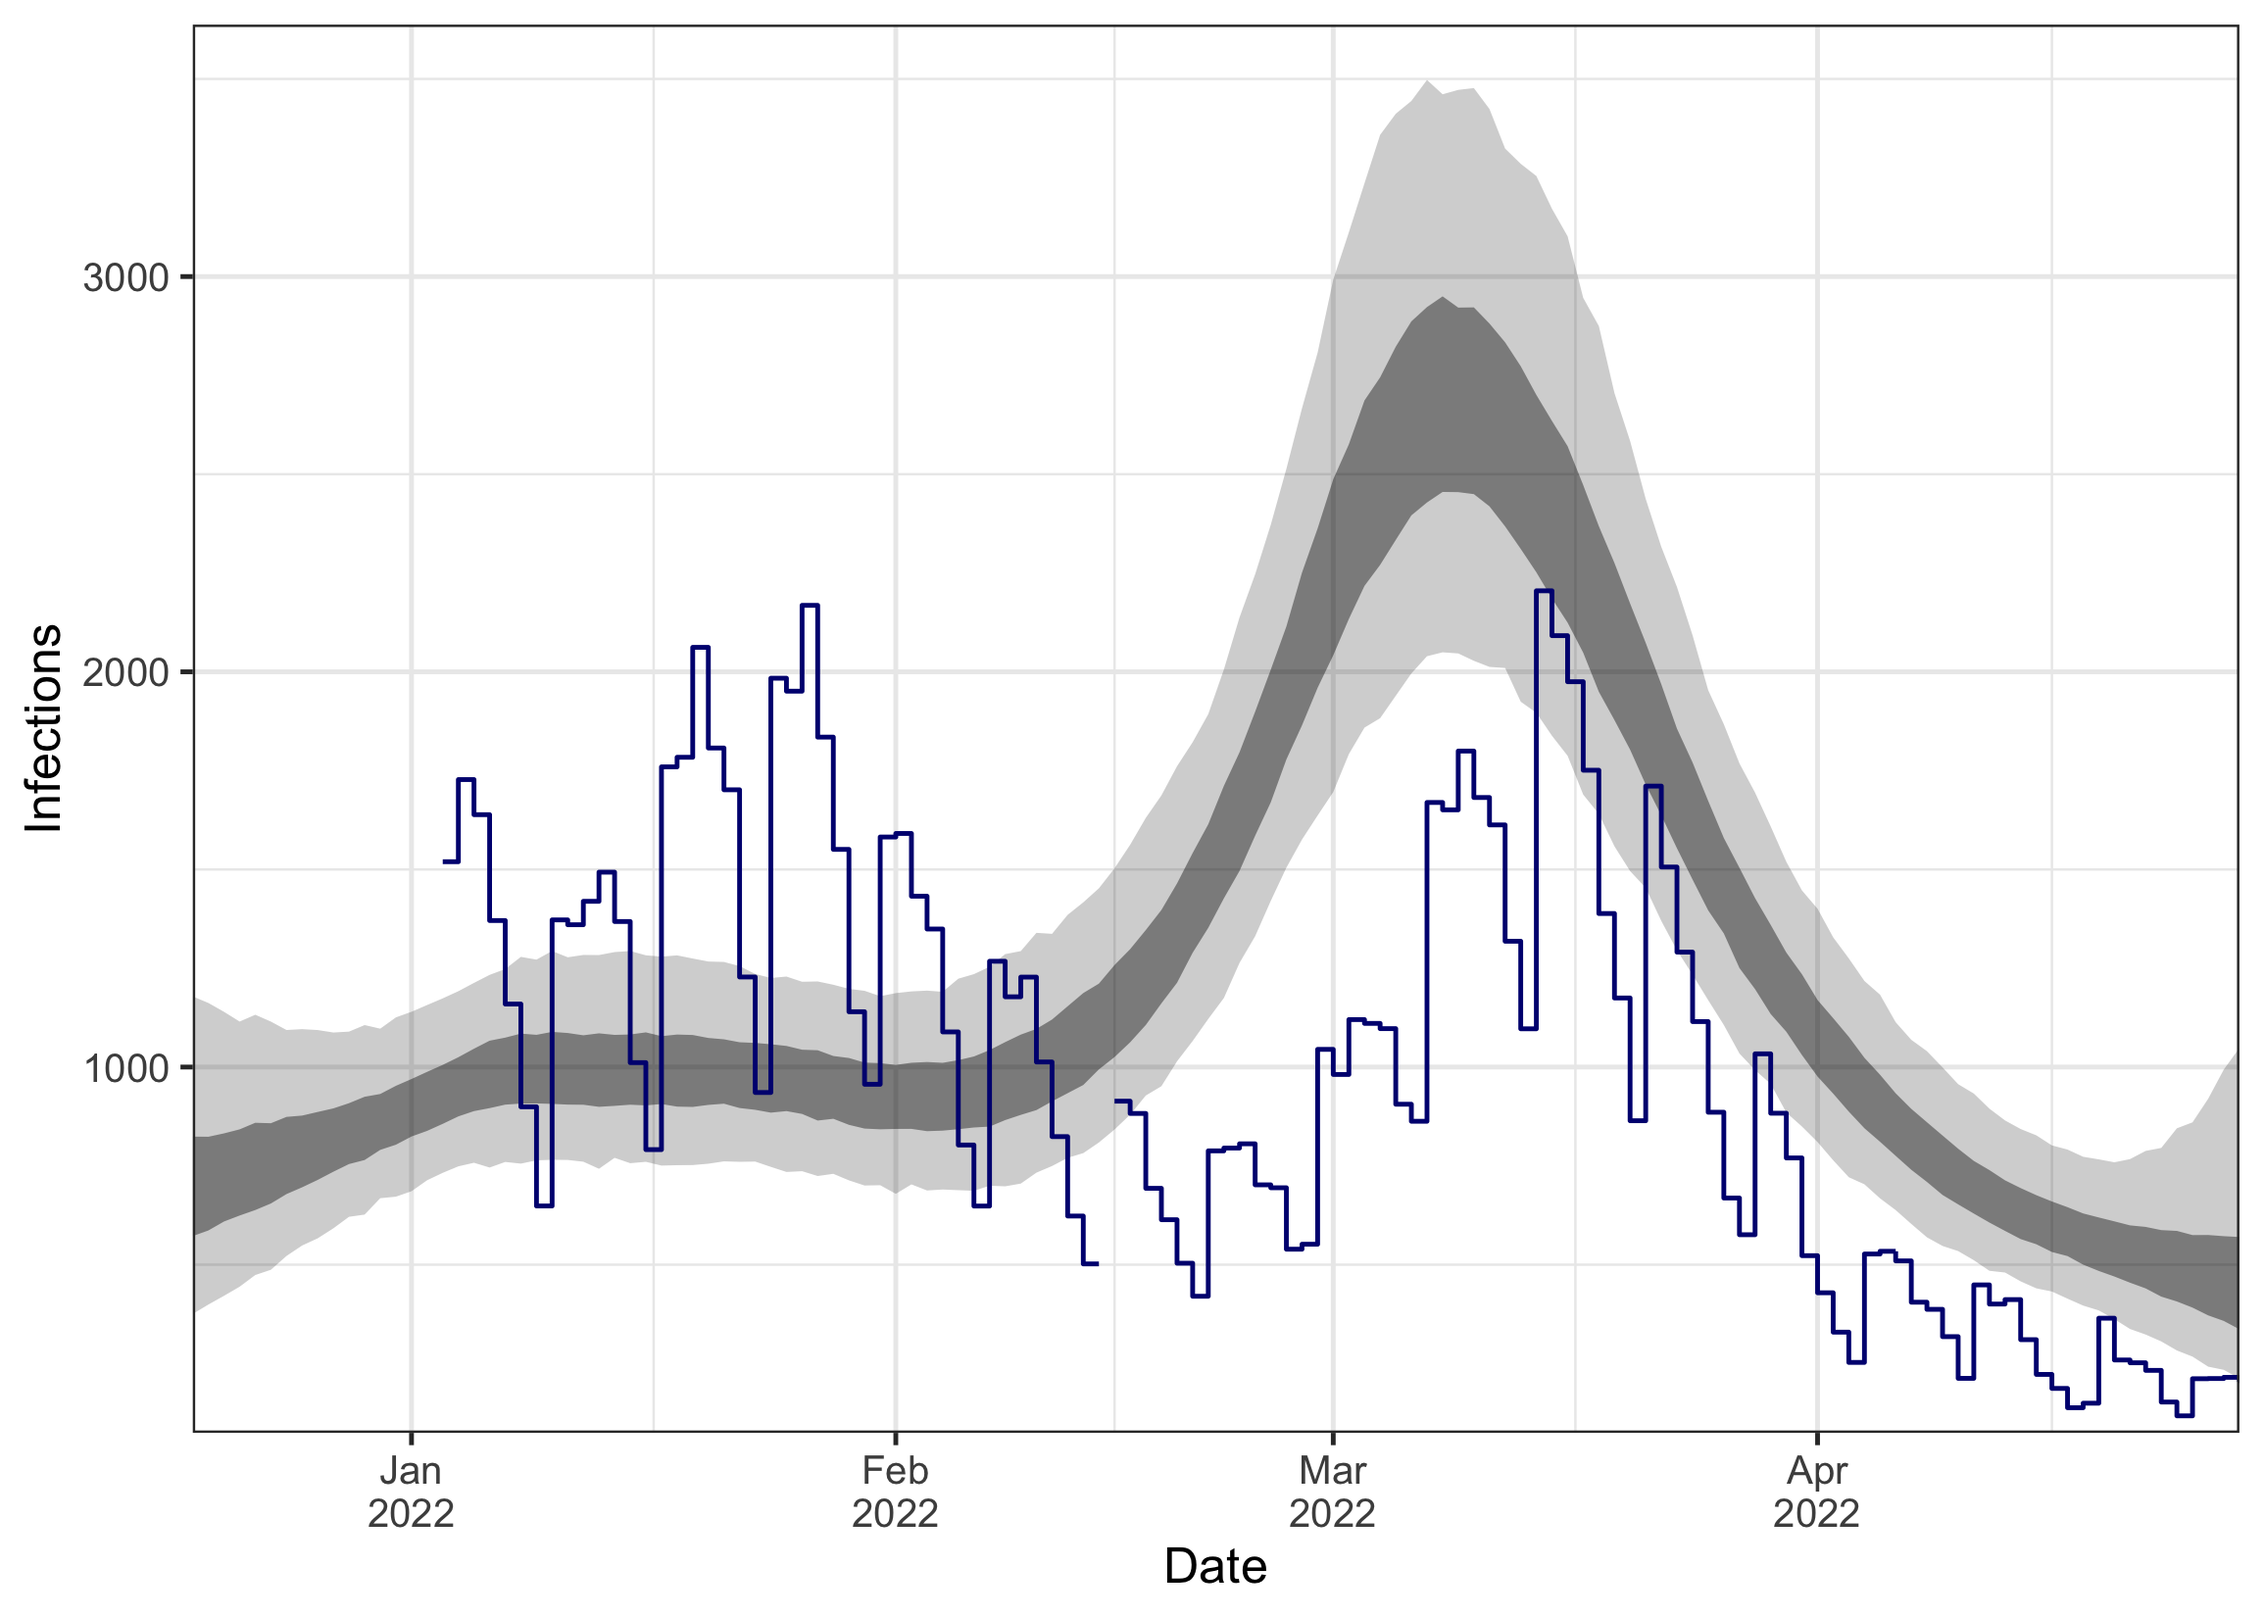
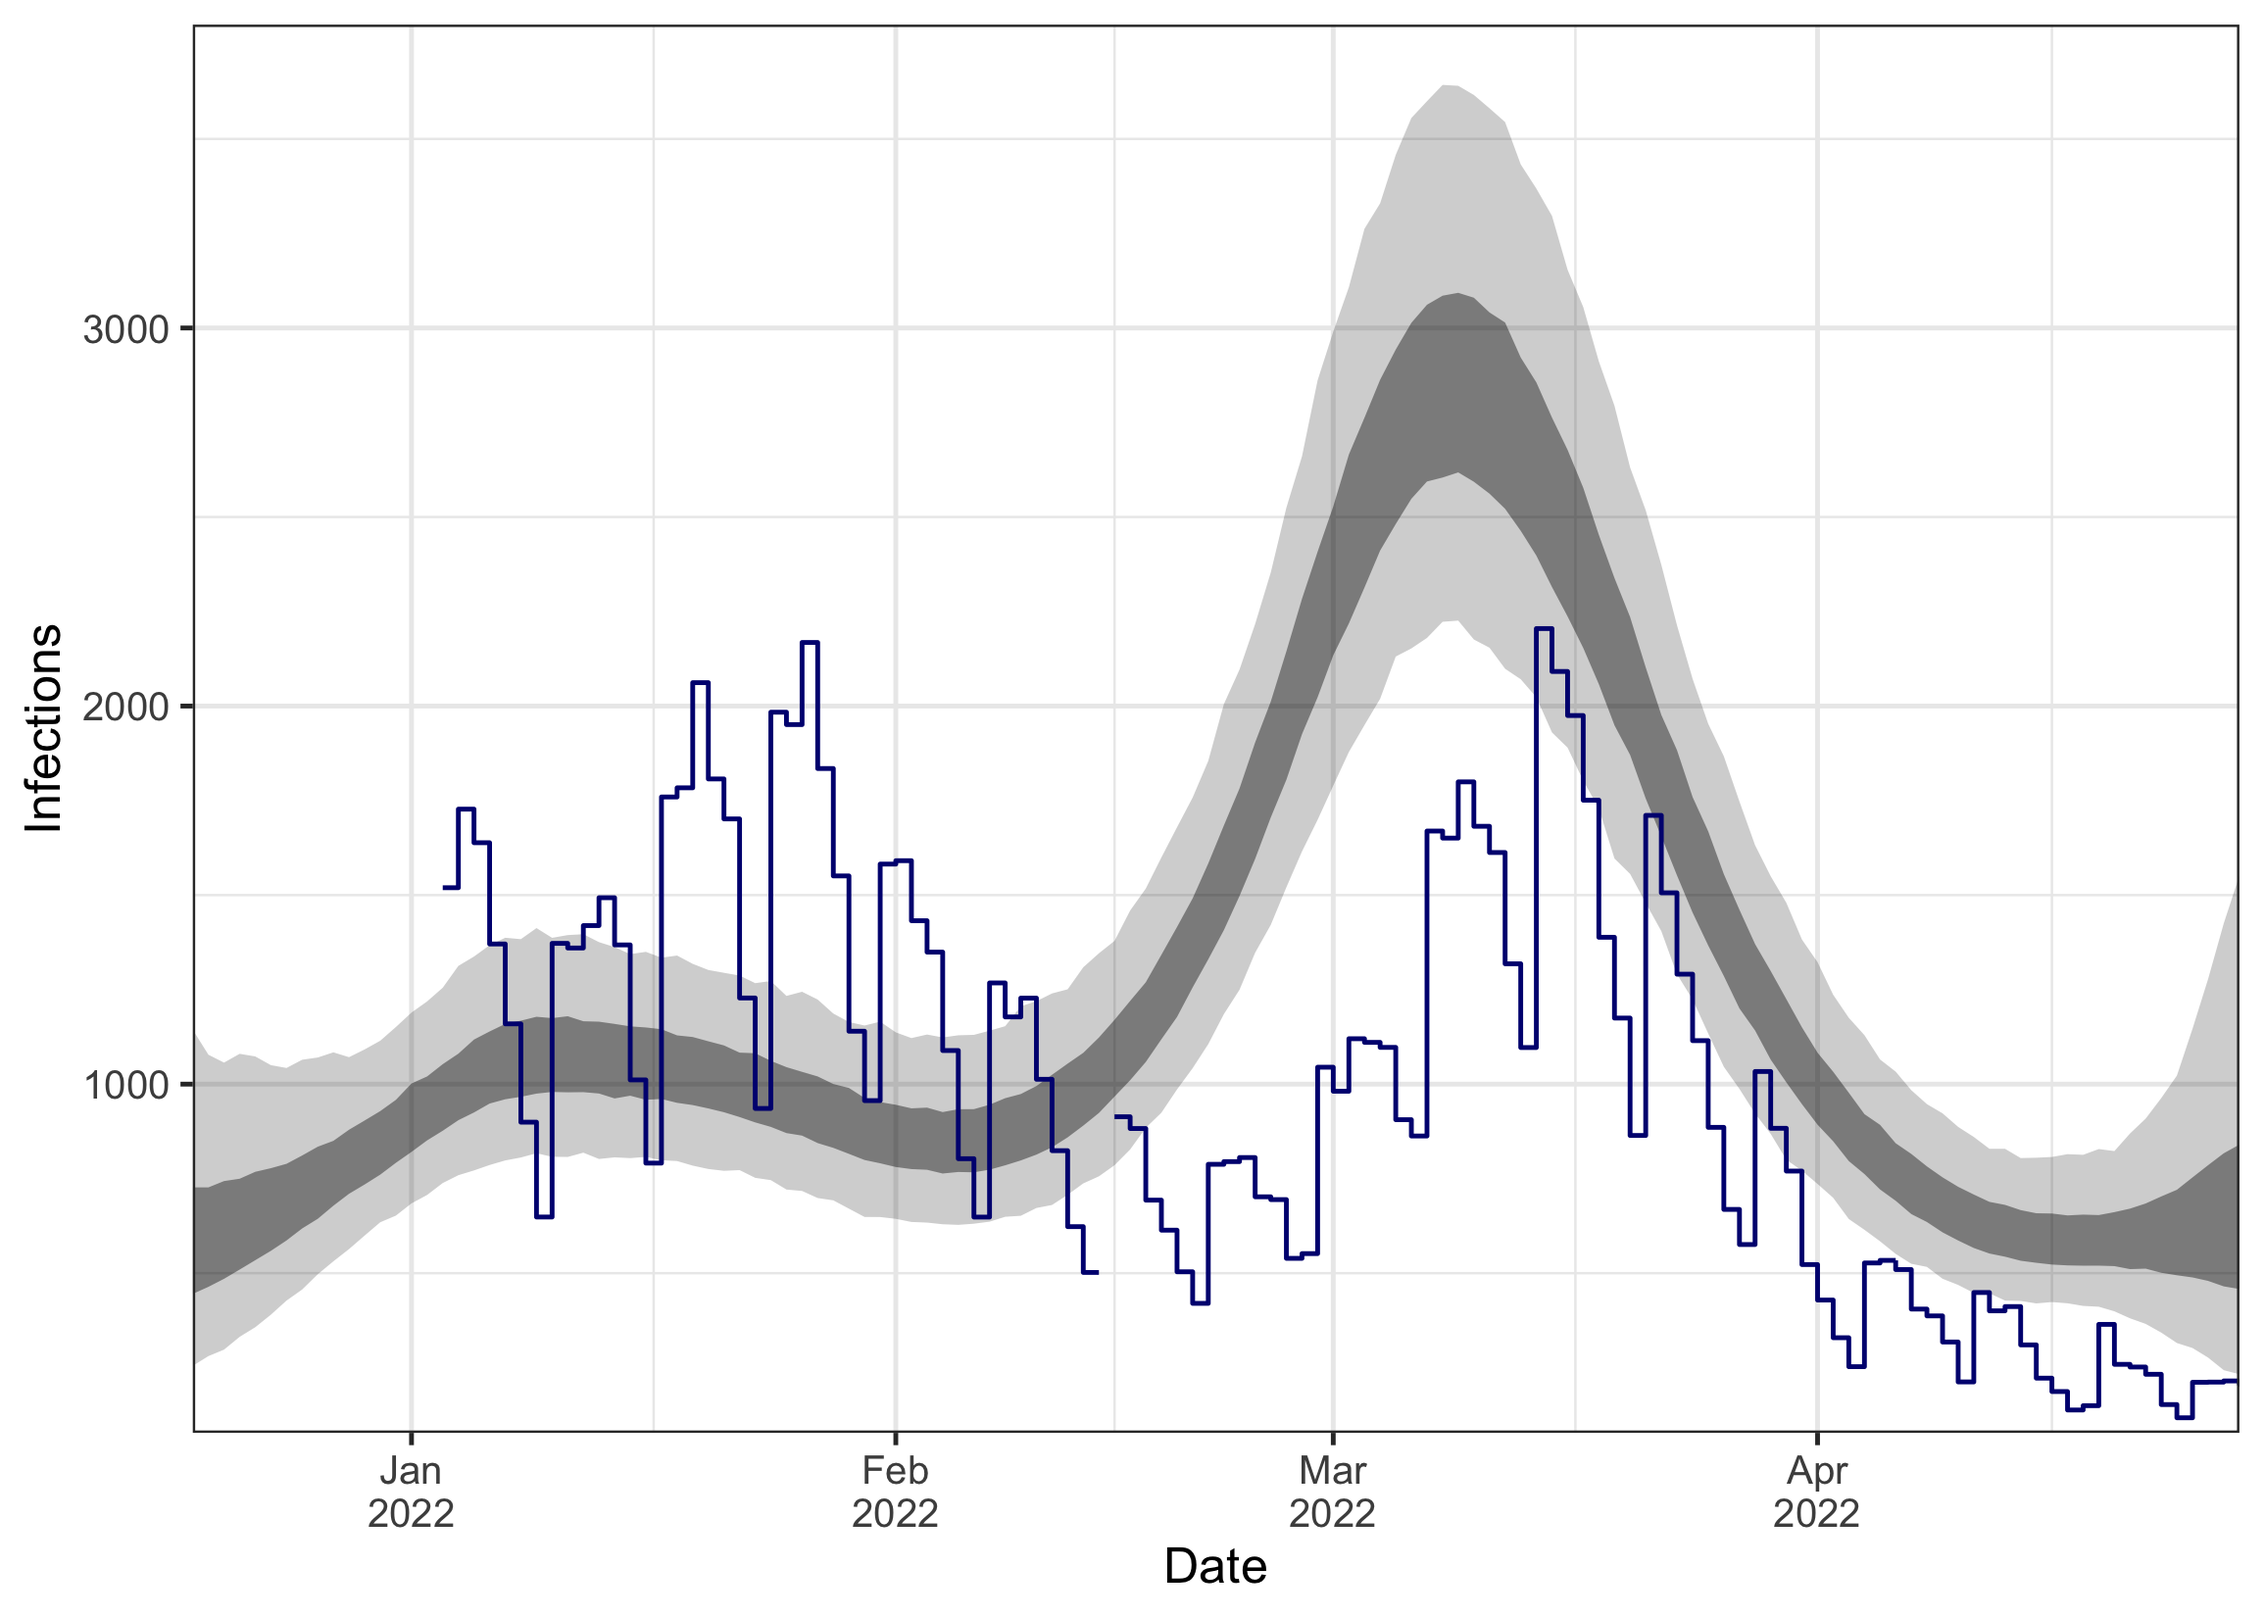
Update README and vignettes

diff --git a/README.md b/README.md
@@ -143,18 +143,18 @@ in Zurich. Some days have missing measurements, but this is no problem:
 
 ``` r
 data_zurich$measurements
-#>            date concentration   weekday
-#>   1: 2022-01-01            NA  Saturday
-#>   2: 2022-01-02            NA    Sunday
-#>   3: 2022-01-03      455.7580    Monday
-#>   4: 2022-01-04      747.8792   Tuesday
-#>   5: 2022-01-05      573.7020 Wednesday
-#>  ---                                   
-#> 116: 2022-04-26      182.3664   Tuesday
-#> 117: 2022-04-27      379.2421 Wednesday
-#> 118: 2022-04-28      439.7427  Thursday
-#> 119: 2022-04-29      394.0033    Friday
-#> 120: 2022-04-30      293.1242  Saturday
+#>            date concentration
+#>   1: 2022-01-01            NA
+#>   2: 2022-01-02            NA
+#>   3: 2022-01-03      455.7580
+#>   4: 2022-01-04      747.8792
+#>   5: 2022-01-05      573.7020
+#>  ---                         
+#> 116: 2022-04-26      182.3664
+#> 117: 2022-04-27      379.2421
+#> 118: 2022-04-28      439.7427
+#> 119: 2022-04-29      394.0033
+#> 120: 2022-04-30      293.1242
 ```
 
 To show the handling of missing data more clearly, we make our data
@@ -299,7 +299,7 @@ Hamiltonian MCMC sampling via stan, using 4 chains with 500 warmup and
 Stan regularly provides updates about the progress of the sampler. The
 overall runtime will depend on your hardware resources, the size of the
 data, the complexity of the model used, and how well the model actually
-fits the data. On a modern laptop the example below should take about 5
+fits the data. On a modern laptop the example below should take about 6
 minutes to run.
 
 ``` r
@@ -518,7 +518,7 @@ ww_result$job$model
 #> 
 #> infections
 #>  |- generation_dist_assume
-#>  |- R_estimate_changepoint_splines
+#>  |- R_estimate_smooth_derivative
 #>  |- seeding_estimate_rw
 #>  |- infection_noise_estimate (overdispersion = TRUE)
 ```
@@ -548,18 +548,18 @@ number.
 
 ``` r
 head(ww_result$summary$R, 5)
-#>          date     mean   median lower_0.95 lower_0.5 upper_0.5 upper_0.95     type
-#> 1: 2021-12-03 1.055381 1.048665  0.8799468  1.000064  1.104198   1.260969 estimate
-#> 2: 2021-12-04 1.055389 1.048665  0.8799478  1.000064  1.104195   1.260969 estimate
-#> 3: 2021-12-05 1.055402 1.048735  0.8799507  1.000117  1.104193   1.260969 estimate
-#> 4: 2021-12-06 1.055421 1.048835  0.8803259  1.000117  1.104255   1.260904 estimate
-#> 5: 2021-12-07 1.055453 1.048840  0.8805724  1.000188  1.104162   1.258138 estimate
-#>    seeding
-#> 1:    TRUE
-#> 2:    TRUE
-#> 3:    TRUE
-#> 4:    TRUE
-#> 5:    TRUE
+#>          date      mean    median lower_0.95 lower_0.5 upper_0.5 upper_0.95
+#> 1: 2021-12-03 0.9854654 0.9914010  0.5086490 0.8570600  1.127522   1.397294
+#> 2: 2021-12-04 0.9866831 0.9927445  0.5164825 0.8594373  1.126350   1.394308
+#> 3: 2021-12-05 0.9886963 0.9934275  0.5263697 0.8632615  1.127323   1.385992
+#> 4: 2021-12-06 0.9916080 0.9967390  0.5437719 0.8680418  1.125373   1.372919
+#> 5: 2021-12-07 0.9954652 1.0036200  0.5665288 0.8738278  1.124315   1.355231
+#>        type seeding
+#> 1: estimate    TRUE
+#> 2: estimate    TRUE
+#> 3: estimate    TRUE
+#> 4: estimate    TRUE
+#> 5: estimate    TRUE
 ```
 
 The `fitted` attribute provides access to all details of the fitted stan
@@ -577,7 +577,7 @@ ww_result$fitted$diagnostic_summary()
 #> [1] 0 0 0 0
 #> 
 #> $ebfmi
-#> [1] 0.9574684 0.9342793 1.0592704 1.0218015
+#> [1] 0.9028552 0.9395239 1.0738571 0.8592549
 ```
 
 Finally, the `checksums` attribute gives us several checksums that
@@ -589,19 +589,19 @@ is not `NULL`), then the results should also be identical.
 ``` r
 ww_result$checksums
 #> $model
-#> [1] "f4b5aa9be59d90f0dc58acc306eb70cd"
+#> [1] "d86228897b135d42f2390763b0504b70"
 #> 
 #> $input
-#> [1] "6c415f5e21cf6547f2a7a470face2ac7"
+#> [1] "c0d0827c0a813dda87d75944aa9011b6"
 #> 
 #> $fit_opts
-#> [1] "5309bbbc3cd1cc109eac60d2fc82de45"
+#> [1] "4f5f052ce14fd6ff0a4eabd438e5f794"
 #> 
 #> $results_opts
 #> [1] "e92f83d0ca5d22b3bb5849d62c5412ee"
 #> 
 #> $init
-#> [1] "b57d01341d896ab30df96cc3cd66461f"
+#> [1] "175e4c7e936709cfa158232010ca2733"
 ```
 
 ## Citing the package
